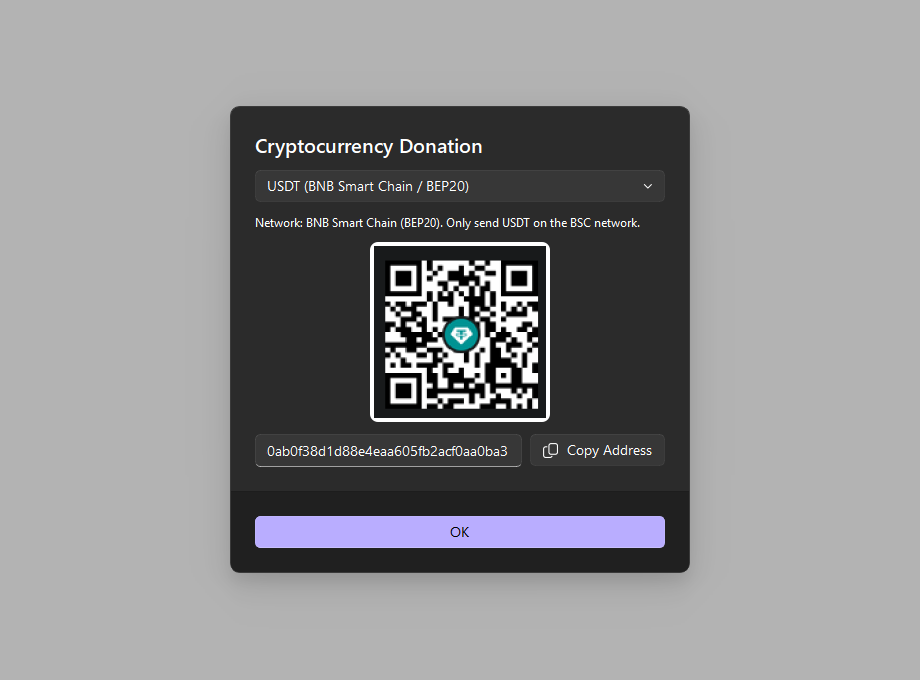
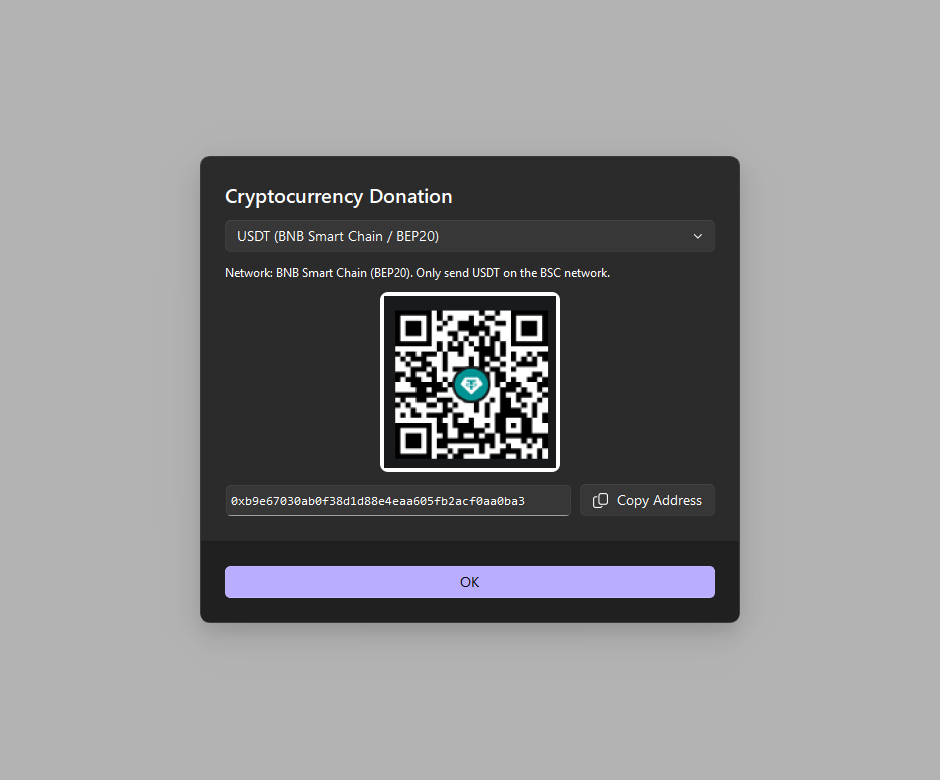
fix(gui): resolve poster misalignment, sync button re-enable race, address truncation, and add genuine click automation

Changed region(s): [[0.213, 0.1544, 0.7913, 0.8647]]

diff --git a/test_gui.py b/test_gui.py
@@ -8,11 +8,12 @@ import steam_syncer
 # Force headless offscreen platform for Qt testing
 os.environ['QT_QPA_PLATFORM'] = 'offscreen'
 
+from unittest.mock import patch, MagicMock
 from PyQt6.QtCore import Qt, QPoint, QPointF, QEvent
 from PyQt6.QtGui import QColor, QPixmap, QMouseEvent
 from PyQt6.QtWidgets import QApplication, QSizePolicy
 from PyQt6.QtTest import QTest
-from qfluentwidgets import InfoBarPosition, CaptionLabel, CheckBox
+from qfluentwidgets import InfoBarPosition, CaptionLabel, CheckBox, TransparentToolButton, PushButton
 from steam_syncer_gui import (
     MainWindow, load_app_config, save_app_config, configure_high_dpi,
     DraggableSwitchButton, TiltPosterLabel, ensure_qfluentwidgets_alive,
@@ -554,6 +555,13 @@ def _do_test_gui():
     dlg_apply.yesButton.click()
     assert dlg_apply.get_selected_cover_path() == dummy_cover
 
+    # Test browse local in CoverSelectorDialog
+    app_icon_path = os.path.join(os.path.dirname(os.path.abspath(__file__)), 'app_icon.ico')
+    dlg_browse = CoverSelectorDialog("TestGame3", parent=window)
+    with patch('PyQt6.QtWidgets.QFileDialog.getOpenFileName', return_value=(app_icon_path, 'Images (*.png)')):
+        dlg_browse.btn_browse_local.click()
+        assert dlg_browse.get_selected_cover_path() == app_icon_path
+
     # 13. Test Selection Toggles ("Select All" / "Deselect All") on Home Tab
     if hasattr(window, 'scan_worker') and window.scan_worker:
         try:
@@ -604,19 +612,68 @@ def _do_test_gui():
             assert chk.isChecked() is True
     assert window.btn_sync.isEnabled() is True
 
-    # 14. Test Interactive Home Buttons & Steam Status Dot Click
-    assert hasattr(window, 'btn_sync')
-    assert hasattr(window, 'btn_close_steam')
-    assert hasattr(window, 'btn_launch_steam')
-    assert hasattr(window, 'btn_browse_hero')
+    # 13b. Interactive Game Card widgets (Poster Click, Folder Open Button)
+    first_card_widget = window.games_layout.itemAtPosition(0, 0).widget()
+    card_open_btn = first_card_widget.findChild(TransparentToolButton)
+    if card_open_btn:
+        with patch('subprocess.Popen') as mock_open:
+            card_open_btn.click()
+            assert mock_open.called or hasattr(os, 'startfile')
 
-    # Test Steam status dot click callback
+    posters = [l for l in first_card_widget.findChildren(CaptionLabel) if isinstance(l, TiltPosterLabel)]
+    if posters:
+        with patch.object(CoverSelectorDialog, 'exec', return_value=0):
+            posters[0].clicked.emit()
+
+    # 14. Test Interactive Home Buttons & Steam Status Dot Click
+    # 14a. Test Steam status dot click callback
     dot_clicked = []
     window.steam_dot.clicked_callback = lambda: dot_clicked.append(True)
     ev_press = QMouseEvent(QEvent.Type.MouseButtonPress, QPointF(16, 16), QPointF(16, 16), Qt.MouseButton.LeftButton, Qt.MouseButton.LeftButton, Qt.KeyboardModifier.NoModifier)
     window.steam_dot.mousePressEvent(ev_press)
     assert len(dot_clicked) == 1
     window.steam_dot.clicked_callback = window.refresh_steam_status
+
+    # 14b. Interactive click of btn_sync
+    with patch('steam_syncer.is_steam_running', return_value=False), \
+         patch('steam_syncer_gui.SyncWorker') as mock_sync_worker_cls:
+        mock_worker = MagicMock()
+        mock_worker.isRunning.return_value = True
+        mock_sync_worker_cls.return_value = mock_worker
+        window.btn_sync.setEnabled(True)
+        window.btn_sync.click()
+        assert mock_worker.start.called
+        assert window.btn_sync.isEnabled() is False
+        assert window.progress_bar.isVisible() is True
+        mock_worker.isRunning.return_value = False
+        window.on_sync_finished({'success': True, 'games_added': 1, 'art_downloaded': 0, 'games_found': []})
+        assert window.btn_sync.isEnabled() is True
+
+    # 14c. Interactive click of btn_close_steam
+    with patch('steam_syncer_gui.CloseSteamWorker') as mock_close_worker_cls:
+        mock_close = MagicMock()
+        mock_close_worker_cls.return_value = mock_close
+        window.btn_close_steam.setEnabled(True)
+        window.btn_close_steam.click()
+        assert mock_close.start.called
+        assert window.btn_close_steam.isEnabled() is False
+        window.on_steam_closed_result(True)
+        assert window.btn_close_steam.isEnabled() is True
+
+    # 14d. Interactive click of btn_launch_steam
+    with tempfile.TemporaryDirectory() as tmp_steam_dir:
+        fake_exe = os.path.join(tmp_steam_dir, "steam.exe")
+        with open(fake_exe, "w") as f:
+            f.write("mock")
+        window.txt_steam_path.setText(tmp_steam_dir)
+        with patch('subprocess.Popen') as mock_popen:
+            window.btn_launch_steam.click()
+            assert mock_popen.called
+
+    # 14e. Interactive click of btn_browse_hero
+    with patch('PyQt6.QtWidgets.QFileDialog.getExistingDirectory', return_value=r"C:\CustomSteamHeroPath"):
+        window.btn_browse_hero.click()
+        assert window.txt_steam_path.text() == os.path.normpath(r"C:\CustomSteamHeroPath")
 
     # 15. Test Navigation and TitleBar Header Buttons
     # Click Settings header button
@@ -670,6 +727,18 @@ def _do_test_gui():
     app.processEvents()
     assert len(window.game_folders) >= 2
 
+    # Interactive Folder Add via btn_add_folder
+    with patch('PyQt6.QtWidgets.QFileDialog.getExistingDirectory', return_value=r"C:\AddedFolderTest"):
+        window.btn_add_folder.click()
+        assert r"C:\AddedFolderTest" in window.game_folders
+        if r"C:\AddedFolderTest" in window.game_folders:
+            window.game_folders.remove(r"C:\AddedFolderTest")
+
+    # Interactive Steam Path Picker via btn_browse_steam
+    with patch('PyQt6.QtWidgets.QFileDialog.getExistingDirectory', return_value=r"C:\MockSteamBrowse"):
+        window.btn_browse_steam.click()
+        assert window.txt_steam_path.text() == os.path.normpath(r"C:\MockSteamBrowse")
+
     # Steam Path Picker and User Selector
     window.txt_steam_path.setText(r"C:\MockSteamFolder_AutoTest")
     window.persist_settings()
@@ -717,6 +786,26 @@ def _do_test_gui():
     assert hasattr(window, 'btn_copy_usdt')
     assert hasattr(window, 'btn_copy_trc')
 
+    # Interactive button clicks for tribute, boosty, and github links
+    with patch('PyQt6.QtGui.QDesktopServices.openUrl') as mock_url:
+        window.btn_tribute.click()
+        assert mock_url.called
+        assert "tribute.tg" in mock_url.call_args[0][0].toString()
+
+    with patch('PyQt6.QtGui.QDesktopServices.openUrl') as mock_url:
+        window.btn_boosty.click()
+        assert mock_url.called
+        assert "boosty.to" in mock_url.call_args[0][0].toString()
+
+    if hasattr(window, 'btn_github'):
+        with patch('PyQt6.QtGui.QDesktopServices.openUrl') as mock_url:
+            window.btn_github.click()
+            assert mock_url.called
+            assert "DeckBridge" in mock_url.call_args[0][0].toString()
+
+    with patch.object(CryptoDonationDialog, 'exec', return_value=0):
+        window.btn_show_crypto.click()
+
     # Quick copy buttons
     window.btn_copy_usdt.click()
     if cb:
@@ -733,6 +822,7 @@ def _do_test_gui():
         app.processEvents()
         coin_info = CRYPTO_WALLETS[c_idx]
         assert crypto_dlg.txt_addr.text() == coin_info['address']
+        assert crypto_dlg.txt_addr.cursorPosition() == 0
         assert crypto_dlg.descLabel.text() != ""
         assert crypto_dlg.lbl_qr.pixmap() is not None
         assert not crypto_dlg.lbl_qr.pixmap().isNull()
@@ -742,6 +832,13 @@ def _do_test_gui():
     if cb:
         assert cb.text() == CRYPTO_WALLETS[crypto_dlg.cmb_coin.currentIndex()]['address']
     crypto_dlg.yesButton.click()
+
+    # 18. Test Window Controls (Minimize, Maximize, Close buttons)
+    assert hasattr(window.titleBar, 'minBtn')
+    assert hasattr(window.titleBar, 'maxBtn')
+    assert hasattr(window.titleBar, 'closeBtn')
+    assert window.titleBar.minBtn.height() > 0
+    assert window.titleBar.closeBtn.height() > 0
 
     # Return to Home tab
     window.switchTo(window.home_interface)

diff --git a/steam_syncer_gui.py b/steam_syncer_gui.py
@@ -1555,8 +1555,8 @@ class CryptoDonationDialog(MessageBoxBase):
     """
     def __init__(self, parent=None, default_coin_idx=0):
         super().__init__(parent=parent)
-        self.widget.setMinimumWidth(460)
-        self.widget.setMaximumWidth(500)
+        self.widget.setMinimumWidth(540)
+        self.widget.setMaximumWidth(580)
 
         self.titleLabel = SubtitleLabel(tr("dialog_crypto_title"), self.widget)
         self.viewLayout.addWidget(self.titleLabel)
@@ -1585,6 +1585,7 @@ class CryptoDonationDialog(MessageBoxBase):
         addr_row.setSpacing(8)
         self.txt_addr = LineEdit(self.widget)
         self.txt_addr.setReadOnly(True)
+        self.txt_addr.setStyleSheet("font-family: 'Consolas', 'Cascadia Code', 'Segoe UI Mono', monospace; font-size: 11.5px;")
         self.btn_copy = PushButton(tr("btn_copy_address"), self.widget, FIF.COPY)
 
         def on_copy():
@@ -1605,6 +1606,8 @@ class CryptoDonationDialog(MessageBoxBase):
             notice_text = tr(notice_key) if notice_key and tr(notice_key) != notice_key else coin["notice"]
             self.descLabel.setText(notice_text)
             self.txt_addr.setText(coin["address"])
+            self.txt_addr.setCursorPosition(0)
+            self.txt_addr.setToolTip(coin["address"])
             self.btn_copy.setText(tr("btn_copy_address"))
             base_dir = os.path.dirname(os.path.abspath(__file__))
             qr_path = os.path.join(base_dir, "Assets", coin["qr"])
@@ -2676,9 +2679,9 @@ class MainWindow(FluentWindow):
         about_title_col.addWidget(self.lbl_about_desc)
         about_header.addLayout(about_title_col, 1)
 
-        btn_github = PushButton("GitHub", self.about_card, FIF.GITHUB)
-        btn_github.clicked.connect(lambda: QDesktopServices.openUrl(QUrl("https://github.com/msmr14/DeckBridge")))
-        about_header.addWidget(btn_github)
+        self.btn_github = PushButton("GitHub", self.about_card, FIF.GITHUB)
+        self.btn_github.clicked.connect(lambda: QDesktopServices.openUrl(QUrl("https://github.com/msmr14/DeckBridge")))
+        about_header.addWidget(self.btn_github)
         about_layout.addLayout(about_header)
 
         layout.addWidget(self.about_card)
@@ -2875,6 +2878,10 @@ class MainWindow(FluentWindow):
         self.update_sync_button_text()
 
     def update_sync_button_text(self):
+        if getattr(self, 'worker', None) and self.worker.isRunning():
+            self.btn_sync.setEnabled(False)
+            return
+
         count = getattr(self, '_scanned_games_count', 0)
         new_count = getattr(self, '_new_games_count', -1)
 
@@ -2912,6 +2919,13 @@ class MainWindow(FluentWindow):
         else:
             if hasattr(self, 'lbl_games_title'):
                 self.lbl_games_title.setText(tr("games_title_scanning"))
+
+        if hasattr(self, 'btn_select_all'):
+            self.btn_select_all.setVisible(new_count > 0)
+            self.btn_select_all.setEnabled(new_count > 0)
+        if hasattr(self, 'btn_deselect_all'):
+            self.btn_deselect_all.setVisible(new_count > 0)
+            self.btn_deselect_all.setEnabled(new_count > 0)
 
     def on_auto_scan_toggled(self, checked: bool):
         self.config['auto_scan'] = checked
@@ -3417,6 +3431,9 @@ class MainWindow(FluentWindow):
 
         # 0. Smart Checkbox: visible only for new unregistered games
         chk_select = CheckBox(card)
+        sp = chk_select.sizePolicy()
+        sp.setRetainSizeWhenHidden(True)
+        chk_select.setSizePolicy(sp)
         is_reg = game_info.get('is_registered', False)
         if is_reg:
             chk_select.setChecked(False)
@@ -3653,11 +3670,11 @@ class MainWindow(FluentWindow):
             )
             return
 
+        self.clear_game_cards()
         self.btn_sync.setEnabled(False)
         self.progress_bar.setVisible(True)
         self.progress_bar.setValue(0)
         self.btn_launch_steam.setVisible(False)
-        self.clear_game_cards()
         if hasattr(self, 'steam_dot') and self.steam_dot:
             self.steam_dot.set_pulsing(True)
 
@@ -3692,6 +3709,7 @@ class MainWindow(FluentWindow):
     def on_sync_finished(self, report: dict):
         if hasattr(self, 'steam_dot') and self.steam_dot:
             self.steam_dot.set_pulsing(False)
+        self.worker = None
         self.btn_sync.setEnabled(True)
         self.progress_bar.setVisible(False)
 
@@ -3699,8 +3717,9 @@ class MainWindow(FluentWindow):
         self._scanned_games_count = count
         self.update_sync_button_text()
 
+        is_success = bool(report.get('success', False))
         if getattr(self, 'lbl_metric_status', None):
-            if report['success']:
+            if is_success:
                 self.lbl_metric_status.setText(tr("metric_status_done"))
             else:
                 self.lbl_metric_status.setText(tr("metric_status_error"))
@@ -3709,7 +3728,7 @@ class MainWindow(FluentWindow):
             if getattr(self, 'lbl_metric_art', None):
                 self.lbl_metric_art.setText(tr("metric_art", count=report.get('art_downloaded', 0)))
 
-        if report['success']:
+        if is_success:
             added = report.get('games_added', 0)
             downloaded = report.get('art_downloaded', 0)
             if added == 0 and downloaded == 0:
@@ -3720,10 +3739,11 @@ class MainWindow(FluentWindow):
                     duration=5000
                 )
             else:
+                msg = report.get('message') or tr("info_sync_success_msg", added=added, downloaded=downloaded)
                 self.show_toast(
                     "success",
                     title=tr("info_sync_success_title"),
-                    content=report['message'],
+                    content=str(msg),
                     duration=5000
                 )
             self.refresh_steam_status()
@@ -3731,10 +3751,11 @@ class MainWindow(FluentWindow):
                 self.btn_launch_steam.setVisible(True)
             self.preview_scanned_games()
         else:
+            err_msg = report.get('message') or tr("info_sync_error_msg")
             self.show_toast(
                 "error",
                 title=tr("info_sync_error_title"),
-                content=report['message'],
+                content=str(err_msg),
                 duration=6000
             )
             self.refresh_steam_status()

diff --git a/capture_docs_screenshots.py b/capture_docs_screenshots.py
@@ -32,7 +32,7 @@ def capture_all():
     setTheme(Theme.DARK)
 
     win = MainWindow()
-    win.resize(920, 680)
+    win.resize(940, 780)
 
     # Disconnect background threads
     if hasattr(win, 'scan_worker') and win.scan_worker:
@@ -114,10 +114,9 @@ def capture_all():
     win._current_games = sample_games
     win._scanned_games_count = len(sample_games)
     win._new_games_count = 2
-    win.lbl_games_title.setText('Discovered games (4)')
+    win.update_sync_button_text()
     win.btn_select_all.setText('Select All')
     win.btn_deselect_all.setText('Deselect All')
-    win.btn_sync.setText('Sync to Steam (2 new)')
 
     win.show()
     for _ in range(10):
